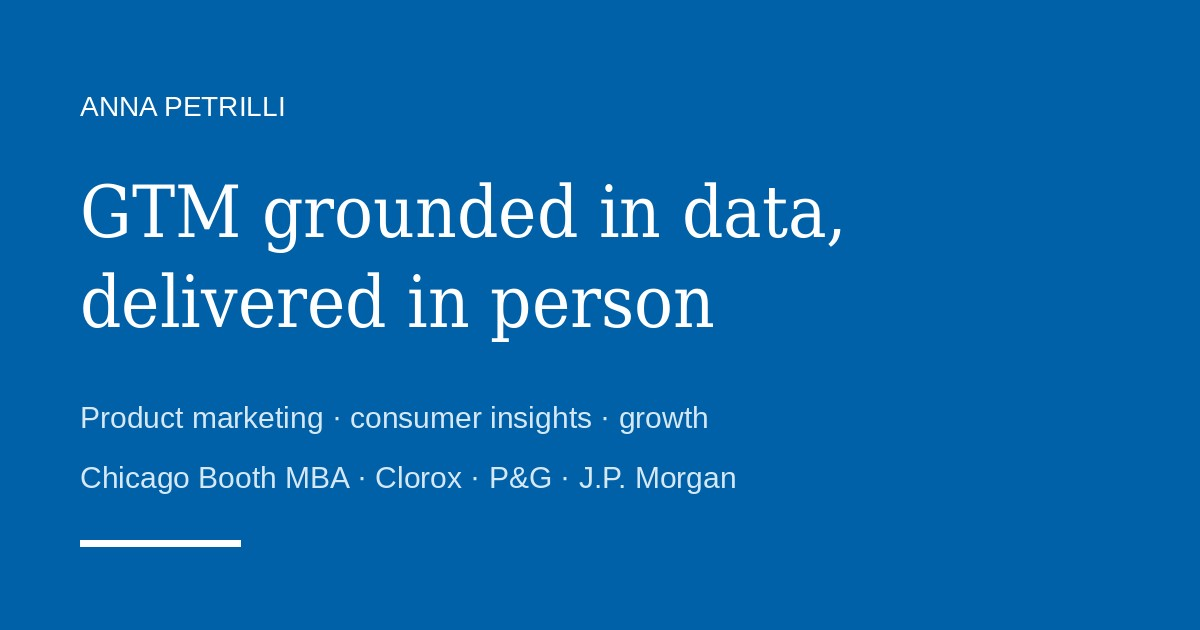
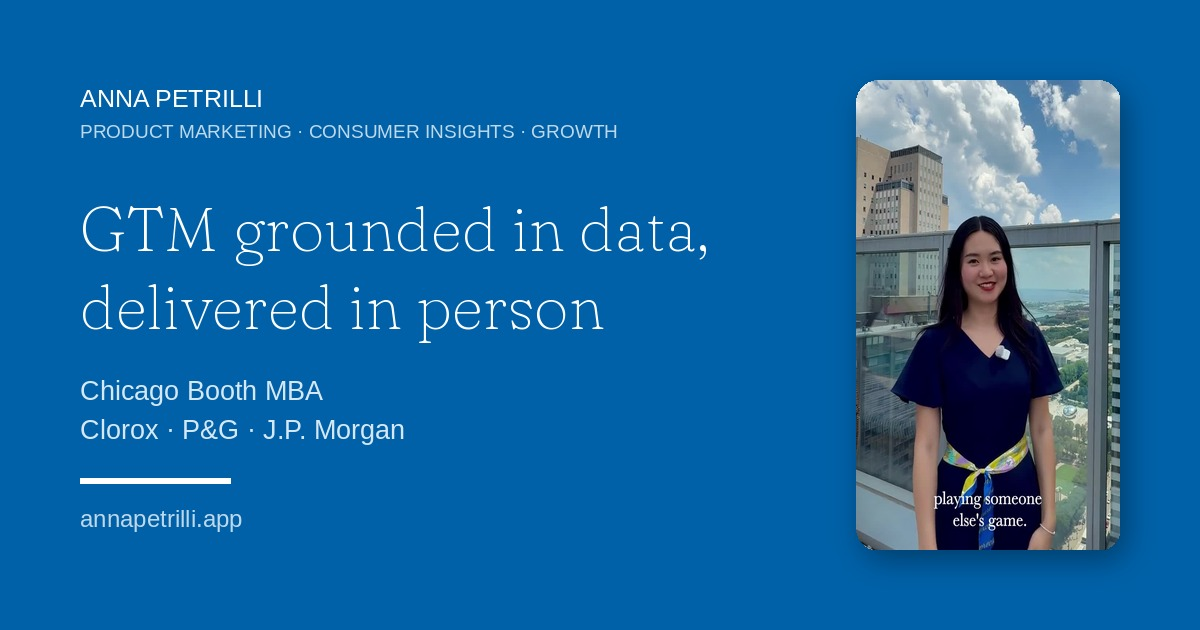
Use a hero video still in the link preview image
Claude-Session: https://claude.ai/code/session_01Szs6URHPxFLRRxB9EjuJyL

diff --git a/index.html b/index.html
@@ -21,7 +21,7 @@
       content="Product marketing, consumer insights and growth. Chicago Booth MBA. Brand and ecommerce at Clorox, brand management at P&amp;G, institutional sales at J.P. Morgan."
     />
     <meta property="og:url" content="https://annapetrilli.app/" />
-    <meta property="og:image" content="https://annapetrilli.app/images/og-image.jpg" />
+    <meta property="og:image" content="https://annapetrilli.app/images/og-image.jpg?v=2" />
     <meta property="og:image:width" content="1200" />
     <meta property="og:image:height" content="630" />
     <meta name="twitter:card" content="summary_large_image" />
@@ -31,7 +31,7 @@
       name="twitter:description"
       content="Product marketing, consumer insights and growth. Chicago Booth MBA. Brand and ecommerce at Clorox, brand management at P&amp;G, institutional sales at J.P. Morgan."
     />
-    <meta name="twitter:image" content="https://annapetrilli.app/images/og-image.jpg" />
+    <meta name="twitter:image" content="https://annapetrilli.app/images/og-image.jpg?v=2" />
     <link rel="preconnect" href="https://fonts.googleapis.com" />
     <link rel="preconnect" href="https://fonts.gstatic.com" crossorigin />
     <link
